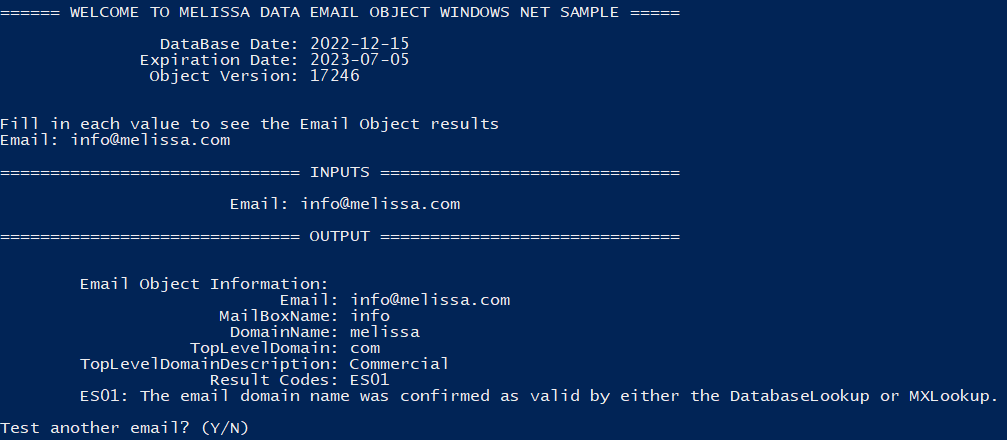
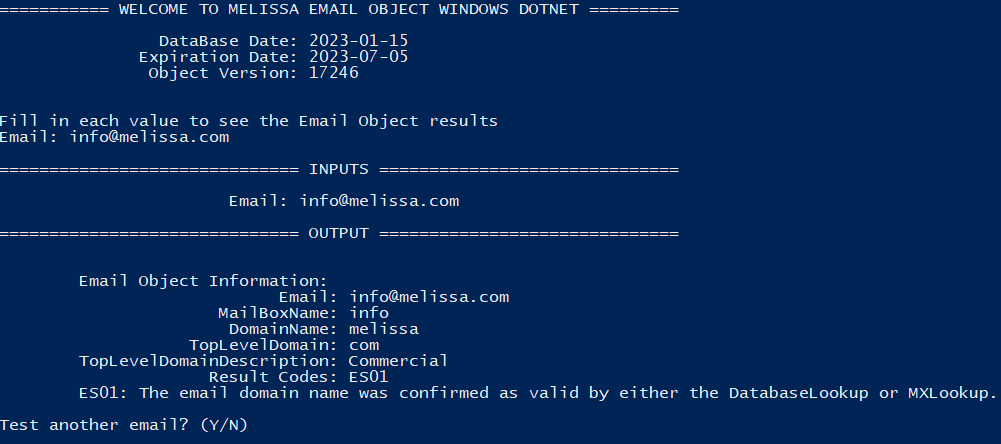
Commit C# Dotnet code for Email Object with release notes

diff --git a/MelissaEmailObjectWindowsDotnet/Program.cs b/MelissaEmailObjectWindowsDotnet/Program.cs
@@ -5,7 +5,7 @@ using System.IO;
 using System.Reflection;
 using MelissaData;
 
-namespace MelissaDataEmailObjectWindowsNETSample
+namespace MelissaEmailObjectWindowsDotnet
 {
   class Program
   {
@@ -50,7 +50,7 @@ namespace MelissaDataEmailObjectWindowsNETSample
 
     static void RunAsConsole(string license, string testEmail, string dataPath)
     {
-      Console.WriteLine("\n\n====== WELCOME TO MELISSA DATA EMAIL OBJECT WINDOWS NET SAMPLE =====\n");
+      Console.WriteLine("\n\n=========== WELCOME TO MELISSA EMAIL OBJECT WINDOWS DOTNET =========\n");
 
       EmailObject emailObject = new EmailObject(license, dataPath);
 
@@ -131,17 +131,17 @@ namespace MelissaDataEmailObjectWindowsNETSample
           }
         }
       }
-      Console.WriteLine("\n============ THANK YOU FOR USING MELISSA DATA NET OBJECT ===========\n");
+      Console.WriteLine("\n============ THANK YOU FOR USING MELISSA DOTNET OBJECT ===========\n");
     }
   }
 
   class EmailObject
   {
-    // Path to email object data files (.dat, etc)
+    // Path to Email Object data files (.dat, etc)
     string dataFilePath;
     //private readonly string dataFilePath = @"C:\Program Files\Melissa DATA\DQT\Data";
 
-    // Create instance of Melissa Data Email Object
+    // Create instance of Melissa Email Object
     public mdEmail mdEmailObj = new mdEmail();
 
     public EmailObject(string license, string dataPath)
@@ -157,7 +157,7 @@ namespace MelissaDataEmailObjectWindowsNETSample
       if (pStatus != mdEmail.ProgramStatus.ErrorNone)
       {
         Console.WriteLine("Failed to Initialize Object.");
-        Console.WriteLine($"Program Status: {pStatus}");
+        Console.WriteLine(pStatus);
         return;
       }
       
@@ -165,7 +165,7 @@ namespace MelissaDataEmailObjectWindowsNETSample
       Console.WriteLine($"              Expiration Date: {mdEmailObj.GetLicenseStringExpirationDate()}");
 
       /**
-       * This number should match with file properties of the Melissa Data Object binary file.
+       * This number should match with file properties of the Melissa Object binary file.
        * If TEST appears with the build number, there may be a license key issue.
        */
       Console.WriteLine($"               Object Version: {mdEmailObj.GetBuildNumber()}\n");
@@ -174,7 +174,7 @@ namespace MelissaDataEmailObjectWindowsNETSample
     // This will call the lookup function to process the input email as well as generate the result codes
     public void ExecuteObjectAndResultCodes(ref DataContainer data)
     {
-      // These are the configuarble pieces of the email object. We are setting what kind of information we want to be looked up
+      // These are the configuarble pieces of the Email Object. We are setting what kind of information we want to be looked up
       mdEmailObj.SetCacheUse(1);
       mdEmailObj.SetCorrectSyntax(true);
       mdEmailObj.SetDatabaseLookup(true);
@@ -186,8 +186,8 @@ namespace MelissaDataEmailObjectWindowsNETSample
       mdEmailObj.VerifyEmail(data.Email);
       data.ResultCodes = mdEmailObj.GetResults();
 
-      // ResultsCodes explain any issues email object has with the object.
-      // List of result codes for Email object
+      // ResultsCodes explain any issues Email Object has with the object.
+      // List of result codes for Email Object
       // https://wiki.melissadata.com/?title=Result_Code_Details#Email_Object
     }
   }

diff --git a/README.md b/README.md
@@ -1,9 +1,12 @@
-# Melissa Data Email Object Windows Net Sample
-
+# Melissa - Email Object Windows Dotnet
 
 ## Purpose
 
-This is a sample of the Melissa Data Email Object using C#
+This code showcases the Melissa Data Email Object using C#.
+
+Please feel free to copy or embed this code to your own project. Happy coding!
+
+For the latest Melissa Email Object release notes, please visit: https://releasenotes.melissa.com/on-premise-api/email-object/
 
 The console will ask the user for:
 
@@ -27,7 +30,7 @@ And return
 
 #### mdEmail.dll
 
-This is the c++ code of the Melissa Data Object.
+This is the c++ code of the Melissa Object.
 
 #### Data File(s)
 
@@ -96,20 +99,20 @@ Melissa Updater is a CLI application allowing the user to update their Melissa a
 	- It will handle all of the data download/path and dll(s) for you. 
 2.  If you already have the latest DQS Release (ZIP), you can find the data file(s) and dll(s) in there
 	- Use the location of where you copied/installed the data and update the "$DataPath" variable in the powershell script.
-	- Copy all the dll(s) mentioned above into the `MelissaDataEmailObjectWindowsNETSample` project folder.
+	- Copy all the dll(s) mentioned above into the `MelissaEmailObjectWindowsDotnet` project folder.
 
 ----------------------------------------
 
 #### Configure Target Framework
 
-Depending on your target .NET framework, you may need to configure the powershell script. In order to do this, open up the `MelissaDataEmailObjectWindowsNETSample.ps1` for editing, proceed to the bottom of the script where you will find this section of code.
+Depending on your target .NET framework, you may need to configure the powershell script. In order to do this, open up the `MelissaEmailObjectWindowsDotnet.ps1` for editing, proceed to the bottom of the script where you will find this section of code.
 
 Default set for .NET 7.0
 ```
-dotnet publish -f="net7.0" -c Release -o $BuildPath MelissaDataEmailObjectWindowsNETSample\MelissaDataEmailObjectWindowsNETSample.csproj
-#dotnet publish -f="net6.0" -c Release -o $BuildPath MelissaDataEmailObjectWindowsNETSample\MelissaDataEmailObjectWindowsNETSample.csproj
-#dotnet publish -f="net5.0" -c Release -o $BuildPath MelissaDataEmailObjectWindowsNETSample\MelissaDataEmailObjectWindowsNETSample.csproj
-#dotnet publish -f="netcoreapp3.1" -c Release -o $BuildPath MelissaDataEmailObjectWindowsNETSample\MelissaDataEmailObjectWindowsNETSample.csproj
+dotnet publish -f="net7.0" -c Release -o $BuildPath MelissaEmailObjectWindowsDotnet\MelissaEmailObjectWindowsDotnet.csproj
+#dotnet publish -f="net6.0" -c Release -o $BuildPath MelissaEmailObjectWindowsDotnet\MelissaEmailObjectWindowsDotnet.csproj
+#dotnet publish -f="net5.0" -c Release -o $BuildPath MelissaEmailObjectWindowsDotnet\MelissaEmailObjectWindowsDotnet.csproj
+#dotnet publish -f="netcoreapp3.1" -c Release -o $BuildPath MelissaEmailObjectWindowsDotnet\MelissaEmailObjectWindowsDotnet.csproj
 ```
 The target framework is specified with the -f flag found in the command line. If you wish to use any version besides .NET 7.0, please uncomment the line containing that framework and comment out the line containing the .NET 7.0 framework (# to comment).
 
@@ -120,32 +123,32 @@ Parameters:
  	
   This is convenient when you want to get results for a specific email address in one run instead of testing multiple email addresses in interactive mode.  
 
-- -license (optional): a license string to test the email object
+- -license (optional): a license string to test the Email Object
 
 - -quiet (optional): add to the command if you do not want to get any console output from the Melissa Updater
 
 When you have modified the script to match your data location, let's run the script. There are two modes:
 - Interactive 
 
-	The script will prompt the user for an email address, then use the provided email to test Email object. For example:
+	The script will prompt the user for an email address, then use the provided email to test Email Object. For example:
 	```
-	$ .\MelissaDataEmailObjectWindowsNETSample.ps1
+	$ .\MelissaEmailObjectWindowsDotnet.ps1
 	```
     For quiet mode:
     ```
-    $ .\MelissaDataEmailObjectWindowsNETSample.ps1 -quiet
+    $ .\MelissaEmailObjectWindowsDotnet.ps1 -quiet
     ```
 - Command Line 
 
-	You can pass an email address in ```-email``` parameter and a license string in ```-license``` parameter to test Email object. For example:
+	You can pass an email address in ```-email``` parameter and a license string in ```-license``` parameter to test Email Object. For example:
 	```
-    $ .\MelissaDataEmailObjectWindowsNETSample.ps1 -email "info@melissa.com"
-    $ .\MelissaDataEmailObjectWindowsNETSample.ps1 -email "info@melissa.com" -license "<your_license_string>"
+    $ .\MelissaEmailObjectWindowsDotnet.ps1 -email "info@melissa.com"
+    $ .\MelissaEmailObjectWindowsDotnet.ps1 -email "info@melissa.com" -license "<your_license_string>"
     ```
 	For quiet mode:
     ```
-    $ .\MelissaDataEmailObjectWindowsNETSample.ps1 -email "info@melissa.com" -quiet
-    $ .\MelissaDataEmailObjectWindowsNETSample.ps1 -email "info@melissa.com" -license "<your_license_string>" -quiet
+    $ .\MelissaEmailObjectWindowsDotnet.ps1 -email "info@melissa.com" -quiet
+    $ .\MelissaEmailObjectWindowsDotnet.ps1 -email "info@melissa.com" -license "<your_license_string>" -quiet
     ```
 This is the expected output from a successful setup for interactive mode:
 
@@ -153,7 +156,7 @@ This is the expected output from a successful setup for interactive mode:
 
 ## Troubleshooting
 
-Troubleshooting for errors found while running your sample program.
+Troubleshooting for errors found while running your program.
 
 ### C# Errors:
 
@@ -166,8 +169,6 @@ Troubleshooting for errors found while running your sample program.
 
 ## Contact Us
 
-For free technical support, please call us at 800-MELISSA ext. 4
-(800-635-4772 ext. 4) or email us at tech@MelissaData.com.
+For free technical support, please call us at 800-MELISSA ext. 4 (800-635-4772 ext. 4) or email us at tech@melissa.com.
 
-To purchase this product, contact Melissa Data sales department at
-800-MELISSA ext. 3 (800-635-4772 ext. 3).
+To purchase this product, contact the Melissa sales department at 800-MELISSA ext. 3 (800-635-4772 ext. 3).

diff --git a/LICENSE.md b/LICENSE.md
@@ -1,0 +1,21 @@
+MIT License
+
+Copyright (c) Melissa Data Corporation
+
+Permission is hereby granted, free of charge, to any person obtaining a copy
+of this software and associated documentation files (the "Software"), to deal
+in the Software without restriction, including without limitation the rights
+to use, copy, modify, merge, publish, distribute, sublicense, and/or sell
+copies of the Software, and to permit persons to whom the Software is
+furnished to do so, subject to the following conditions:
+
+The above copyright notice and this permission notice shall be included in all
+copies or substantial portions of the Software.
+
+THE SOFTWARE IS PROVIDED "AS IS", WITHOUT WARRANTY OF ANY KIND, EXPRESS OR
+IMPLIED, INCLUDING BUT NOT LIMITED TO THE WARRANTIES OF MERCHANTABILITY,
+FITNESS FOR A PARTICULAR PURPOSE AND NONINFRINGEMENT. IN NO EVENT SHALL THE
+AUTHORS OR COPYRIGHT HOLDERS BE LIABLE FOR ANY CLAIM, DAMAGES OR OTHER
+LIABILITY, WHETHER IN AN ACTION OF CONTRACT, TORT OR OTHERWISE, ARISING FROM,
+OUT OF OR IN CONNECTION WITH THE SOFTWARE OR THE USE OR OTHER DEALINGS IN THE
+SOFTWARE.
